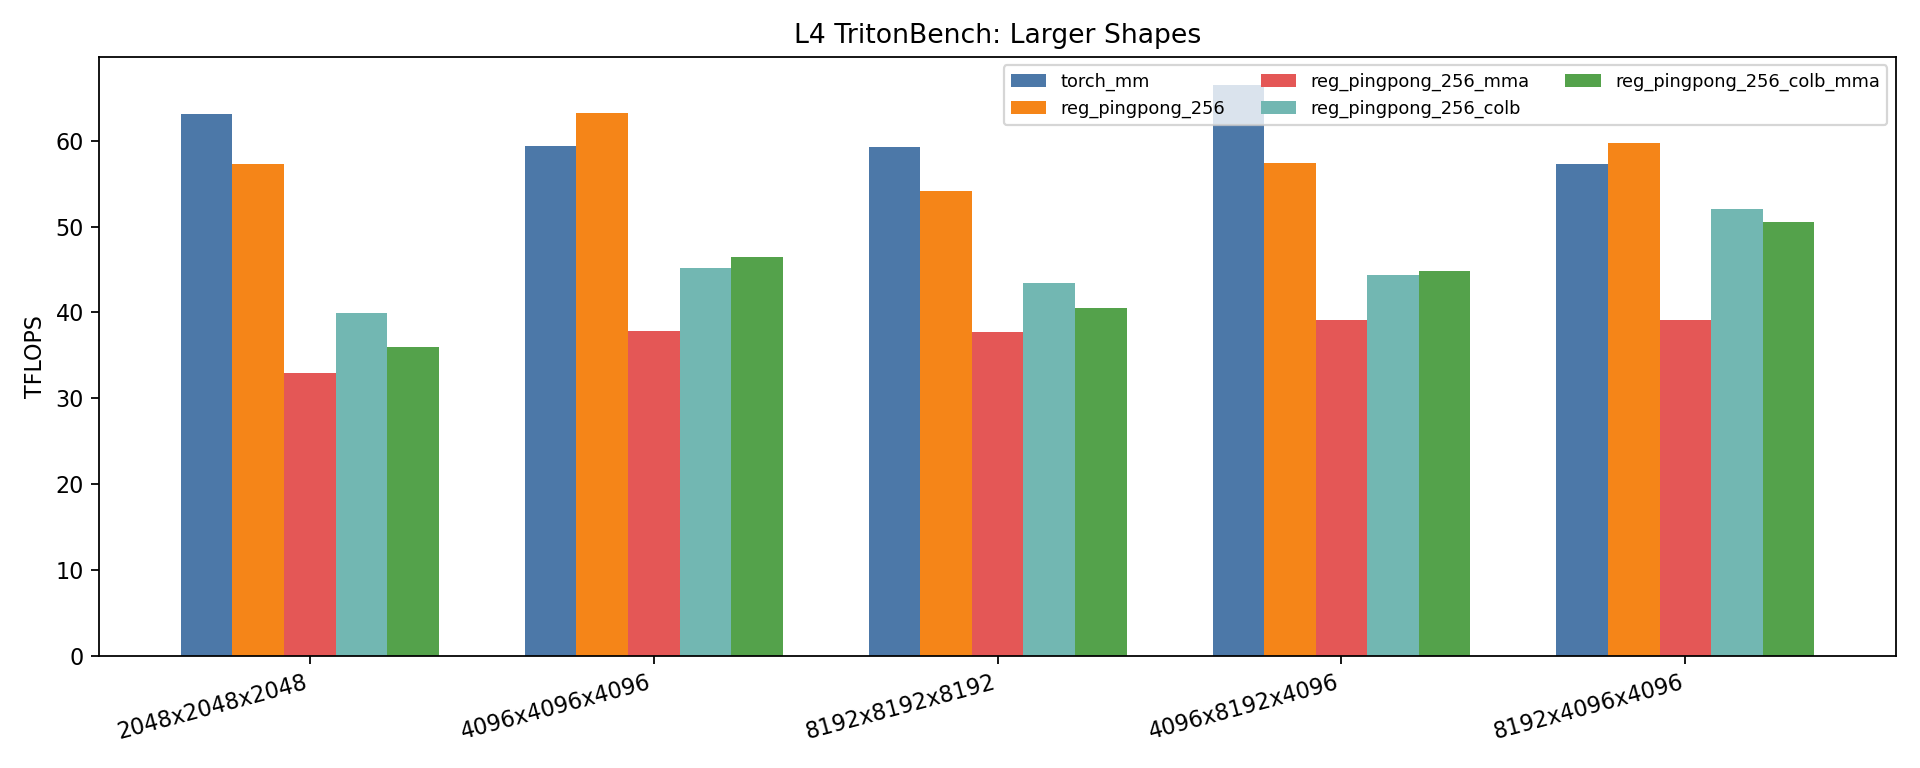
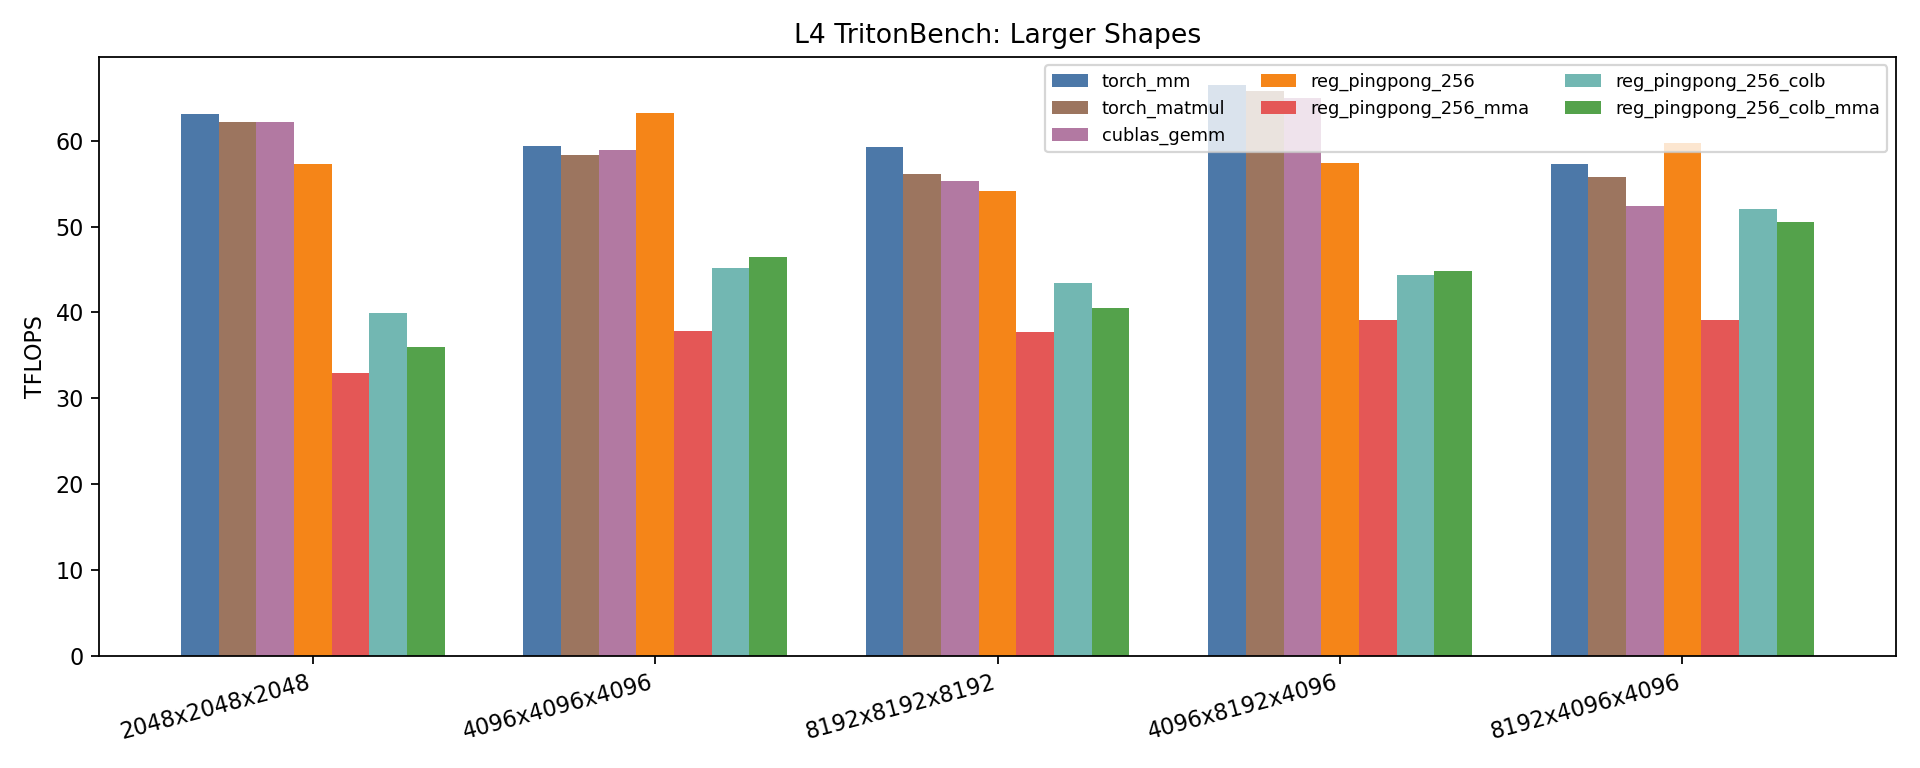
Refine plots and README presentation

diff --git a/src/tensorcore_gemm/implementations/gemm_256_variants/plot_benchmarks.py b/src/tensorcore_gemm/implementations/gemm_256_variants/plot_benchmarks.py
@@ -15,6 +15,8 @@ LARGE_FILE = RESULTS / "l4-tritonbench-20260408-110716.json"
 
 BACKENDS = [
     "torch_mm",
+    "torch_matmul",
+    "cublas_gemm",
     "reg_pingpong_256",
     "reg_pingpong_256_mma",
     "reg_pingpong_256_colb",
@@ -23,6 +25,8 @@ BACKENDS = [
 
 COLORS = {
     "torch_mm": "#4C78A8",
+    "torch_matmul": "#9C755F",
+    "cublas_gemm": "#B279A2",
     "reg_pingpong_256": "#F58518",
     "reg_pingpong_256_mma": "#E45756",
     "reg_pingpong_256_colb": "#72B7B2",
@@ -46,7 +50,7 @@ def to_map(case: dict) -> dict:
 def plot_file(payload: dict, title: str, out_path: Path) -> None:
     cases = payload["cases"]
     labels = [shape_label(c["shape"]) for c in cases]
-    width = 0.15
+    width = 0.11
     x = list(range(len(labels)))
 
     plt.figure(figsize=(12, 4.8))
@@ -71,8 +75,8 @@ def plot_vs_baseline(kmeans: dict, large: dict, out_path: Path) -> None:
     fig, axes = plt.subplots(2, 1, figsize=(13, 8), sharey=True)
 
     for ax, payload, title in [
-        (axes[0], kmeans, "K-means Shapes vs torch_mm"),
-        (axes[1], large, "Larger Shapes vs torch_mm"),
+        (axes[0], kmeans, "K-means Shapes Relative to torch_mm"),
+        (axes[1], large, "Larger Shapes Relative to torch_mm"),
     ]:
         cases = payload["cases"]
         labels = [shape_label(c["shape"]) for c in cases]
@@ -104,7 +108,6 @@ def plot_vs_baseline(kmeans: dict, large: dict, out_path: Path) -> None:
 def main() -> None:
     kmeans = load(KMEANS_FILE)
     large = load(LARGE_FILE)
-    plot_file(kmeans, "L4 TritonBench: K-means Shapes", OUT_DIR / "kmeans_tflops.png")
     plot_file(large, "L4 TritonBench: Larger Shapes", OUT_DIR / "large_tflops.png")
     plot_vs_baseline(kmeans, large, OUT_DIR / "baseline_relative_tflops.png")
 

diff --git a/src/tensorcore_gemm/implementations/gemm_256_variants/README.md b/src/tensorcore_gemm/implementations/gemm_256_variants/README.md
@@ -11,26 +11,24 @@ The focus here is the `256x128x32` family of kernels, using multi-stage shared-m
   - `reg_pingpong_256_mma.cu`
   - `reg_pingpong_256_colb.cu`
   - `reg_pingpong_256_colb_mma.cu`
-
 - Shared PTX macros and async-copy primitives:
   - `ptx_primitives.cuh`
-
 - Shared helpers:
   - `gemm_256_common.cuh`
 
-## Techniques Used (Short)
+## Techniques Used
 
 - Triple-buffered `cp.async` staging over `K_TILE=32`.
 - CTA tile `256x128`, warp tile `64x64`.
 - Register ping-pong over two 16-wide WMMA halves (`k_step=0/16`).
 - Two B-layout families:
-  - row-major B (`reg_pingpong_256`, `reg_pingpong_256_mma`)
-  - pre-transposed/col-major B (`reg_pingpong_256_colb`, `reg_pingpong_256_colb_mma`)
+  - row-major B for `reg_pingpong_256` and `reg_pingpong_256_mma`
+  - pre-transposed col-major B for `reg_pingpong_256_colb` and `reg_pingpong_256_colb_mma`
 - Two math backbones:
   - WMMA fragment API
-  - inline PTX `ldmatrix` + `mma.sync` (`*_mma`)
+  - inline PTX `ldmatrix` + `mma.sync` for the `*_mma` variants
 
-## Benchmarks vs Baseline (`torch_mm`, Modal L4)
+## Benchmarks on Modal L4
 
 Source JSONs:
 
@@ -57,7 +55,7 @@ Source JSONs:
 | 4096x8192x4096 | 66.48 | 57.38 | 39.11 | 44.38 | 44.79 |
 | 8192x4096x4096 | 57.32 | 59.77 | 39.09 | 52.08 | 50.52 |
 
-### Post-Change Spot Check (`_colb_mma` epilogue)
+### Post-change Spot Check for `_colb_mma` Epilogue
 
 From `results/l4-tritonbench-20260408-112823.json`:
 
@@ -67,13 +65,12 @@ From `results/l4-tritonbench-20260408-112823.json`:
 
 ## Plots
 
-- `plots/kmeans_tflops.png`
 - `plots/large_tflops.png`
 - `plots/baseline_relative_tflops.png`
 
-The baseline-relative plot shows each kernel as `TFLOPS / torch_mm` across the tested shapes, so values above `1.0` beat the baseline and values below `1.0` trail it.
+The large-shape plot includes the custom kernels together with `torch_mm`, `torch_matmul`, and `cublas_gemm`.
 
-![K-means TFLOPS](./plots/kmeans_tflops.png)
+The baseline-relative plot shows each backend as `TFLOPS / torch_mm` across the tested shapes, so values above `1.0` beat the baseline and values below `1.0` trail it.
 
 ![Large-shape TFLOPS](./plots/large_tflops.png)
 

diff --git a/README.md b/README.md
@@ -110,13 +110,12 @@ Larger shapes on L4 (`results/l4-tritonbench-20260408-110716.json`):
 
 Plots:
 
-- [src/tensorcore_gemm/implementations/gemm_256_variants/plots/kmeans_tflops.png](./src/tensorcore_gemm/implementations/gemm_256_variants/plots/kmeans_tflops.png)
 - [src/tensorcore_gemm/implementations/gemm_256_variants/plots/large_tflops.png](./src/tensorcore_gemm/implementations/gemm_256_variants/plots/large_tflops.png)
 - [src/tensorcore_gemm/implementations/gemm_256_variants/plots/baseline_relative_tflops.png](./src/tensorcore_gemm/implementations/gemm_256_variants/plots/baseline_relative_tflops.png)
 
-The baseline-relative plot compares each kernel against `torch_mm` on every tested shape using `TFLOPS / torch_mm`.
+The large-shape plot includes the custom kernels together with `torch_mm`, `torch_matmul`, and `cublas_gemm`.
 
-![K-means TFLOPS](./src/tensorcore_gemm/implementations/gemm_256_variants/plots/kmeans_tflops.png)
+The baseline-relative plot compares every backend against `torch_mm` on each tested shape using `TFLOPS / torch_mm`.
 
 ![Large-shape TFLOPS](./src/tensorcore_gemm/implementations/gemm_256_variants/plots/large_tflops.png)
 
